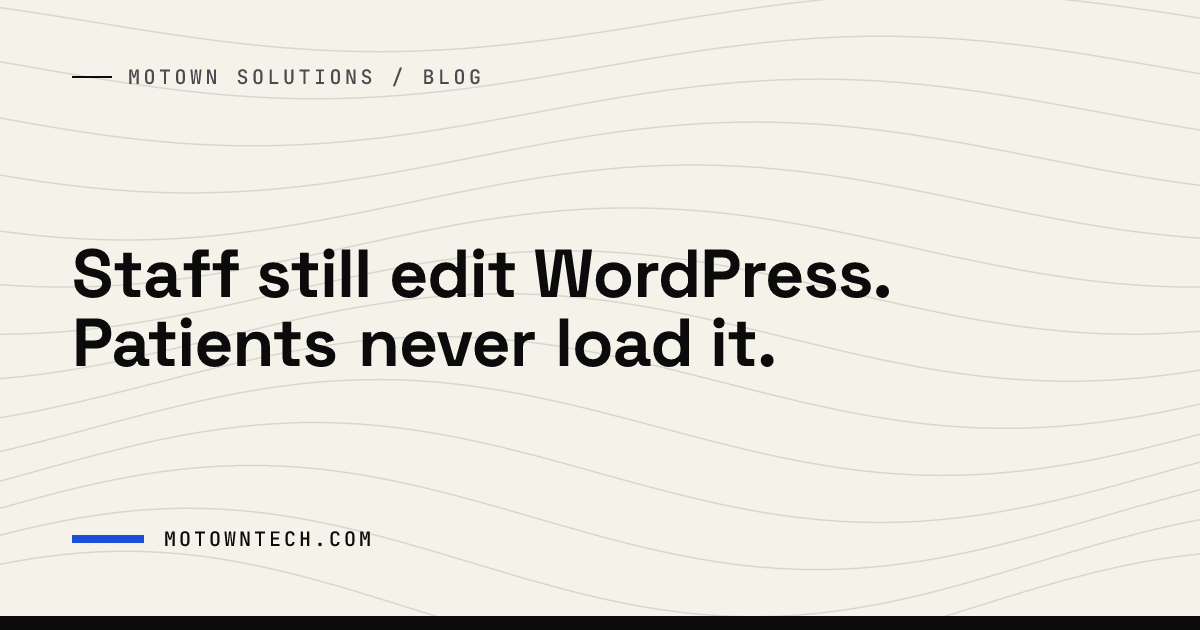
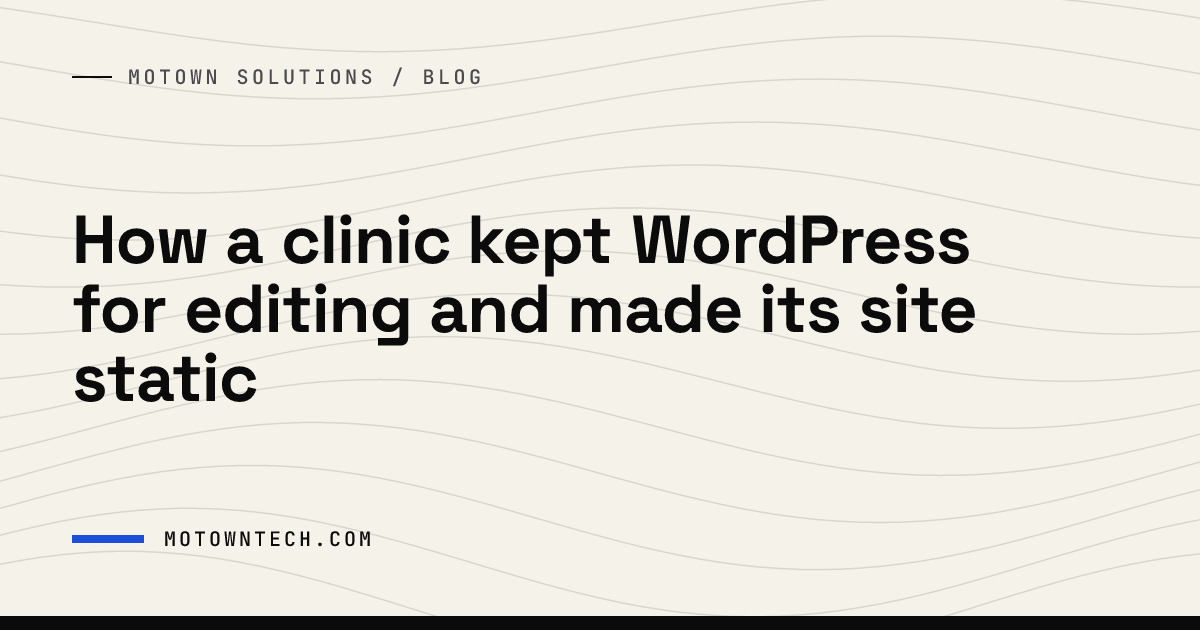
content(blog): descriptive post titles and a title rule
Replaces the 13 teaser titles ("Nothing was broken. That was the hard
part.") with titles that name the topic and what the reader gets
("Taking over someone else's codebase without breaking anything").
Slugs are unchanged. Regenerates the title cards and adds the title rule
to the /blog-post skill so future posts follow it.

Changed region(s): [[0.0617, 0.3317, 0.8325, 0.6333]]

diff --git a/.claude/skills/blog-post/SKILL.md b/.claude/skills/blog-post/SKILL.md
@@ -20,6 +20,18 @@ them that way. If the post needs a fact you don't have, ask.
 
 ## 2. Write the draft
 
+- Title: say what the post covers, not a teaser.
+  - Name the topic in the first few words, the way a reader would search
+    for it ("MVP", "WordPress migration", "technical due diligence").
+  - Say what the reader gets: a decision, a method, or what changed for a
+    client. Case-study posts name the kind of client and what was done
+    ("How an auction house replaced its spreadsheets with a real app").
+  - 45 to 65 characters; posts have no brand suffix in the browser title.
+  - Plain sentence case. No riddles, slogans or two-fragment lines
+    ("X. Y.") as the whole title; a clever line can open the post instead.
+    A colon only to separate topic from angle.
+  - Test: someone who reads only the title can say what the post covers
+    and whether it's for them.
 - Slug: lowercase words joined by hyphens, unique, never a bare number
   (`/blog/2` is pagination).
 - Frontmatter: `title`, `description` (one or two sentences; it is also the

diff --git a/src/content/blog/auction-house-spreadsheets.md b/src/content/blog/auction-house-spreadsheets.md
@@ -1,5 +1,5 @@
 ---
-title: "A spreadsheet knows what. It never knows who, or when."
+title: "How an auction house replaced its spreadsheets with a real app"
 image: ../../assets/blog/auction-house-spreadsheets-image.jpg
 imageAlt: "Loose paper slips and blank photos scattered across a blue surface, turning into a neat column of paper tags on the right"
 cover: ../../assets/blog/auction-house-spreadsheets.png

diff --git a/src/content/blog/mvp-what-to-build-first.md b/src/content/blog/mvp-what-to-build-first.md
@@ -1,5 +1,5 @@
 ---
-title: "Your MVP needs one loop. Write the rest of the list down."
+title: "What to build first in an MVP, and what to leave out"
 image: ../../assets/blog/mvp-what-to-build-first-image.jpg
 imageAlt: "A small wooden stool alone on a blue floor, with a stack of blank cards set aside in the corner"
 cover: ../../assets/blog/mvp-what-to-build-first.png

diff --git a/src/content/blog/prototype-to-production-health-data.md b/src/content/blog/prototype-to-production-health-data.md
@@ -1,5 +1,5 @@
 ---
-title: "A prototype proves the idea. It can't hold someone's name."
+title: "Rebuilding a low-code prototype to safely handle health data"
 image: ../../assets/blog/prototype-to-production-health-data-image.jpg
 imageAlt: "A paper model house next to the same house cast in concrete"
 cover: ../../assets/blog/prototype-to-production-health-data.png

diff --git a/src/content/blog/donation-platform-screening.md b/src/content/blog/donation-platform-screening.md
@@ -1,5 +1,5 @@
 ---
-title: "Screen every donor. Tell none of them."
+title: "How we built sanctions screening into a donation platform"
 image: ../../assets/blog/donation-platform-screening-image.jpg
 imageAlt: "A mesh sieve on a blue surface letting small white pebbles through and holding back larger stones"
 cover: ../../assets/blog/donation-platform-screening.png

diff --git a/src/content/blog/cloud-migration-route-by-route.md b/src/content/blog/cloud-migration-route-by-route.md
@@ -1,5 +1,5 @@
 ---
-title: "Leaving AWS one route at a time"
+title: "Migrating from AWS to Cloudflare one route at a time"
 image: ../../assets/blog/cloud-migration-route-by-route-image.jpg
 imageAlt: "Taped cardboard moving boxes floating above a blue floor, one box resting on the ground"
 cover: ../../assets/blog/cloud-migration-route-by-route.png

diff --git a/src/content/blog/technical-due-diligence-explained.md b/src/content/blog/technical-due-diligence-explained.md
@@ -1,5 +1,5 @@
 ---
-title: "Know what's in the codebase before they do"
+title: "What technical due diligence checks before a raise or acquisition"
 image: ../../assets/blog/technical-due-diligence-explained-image.jpg
 imageAlt: "A jeweler's loupe next to a white cube on a blue surface"
 cover: ../../assets/blog/technical-due-diligence-explained.png

diff --git a/src/content/blog/shopify-custom-or-headless.md b/src/content/blog/shopify-custom-or-headless.md
@@ -1,5 +1,5 @@
 ---
-title: "Shopify, a custom theme or headless: how to pick"
+title: "Shopify, a custom theme or headless commerce: how to choose"
 image: ../../assets/blog/shopify-custom-or-headless-image.jpg
 imageAlt: "Three empty shopping baskets, wicker, wire and blue, on a blue floor"
 cover: ../../assets/blog/shopify-custom-or-headless.png

diff --git a/src/content/blog/building-for-people-in-grief.md b/src/content/blog/building-for-people-in-grief.md
@@ -1,5 +1,5 @@
 ---
-title: "Nobody arrives here wanting to use software."
+title: "How we designed a member platform for a grief-support nonprofit"
 image: ../../assets/blog/building-for-people-in-grief-image.jpg
 imageAlt: "A small olive sapling in a pot on a blue windowsill in sunlight"
 cover: ../../assets/blog/building-for-people-in-grief.png

diff --git a/src/content/blog/what-your-prototype-skipped.md b/src/content/blog/what-your-prototype-skipped.md
@@ -1,5 +1,5 @@
 ---
-title: "What your AI-built prototype skipped"
+title: "What an AI-built prototype needs before it's ready for real users"
 image: ../../assets/blog/what-your-prototype-skipped-image.jpg
 imageAlt: "A half-built stone arch supported by wooden scaffolding on a blue floor"
 cover: ../../assets/blog/what-your-prototype-skipped.png

diff --git a/src/content/blog/headless-wordpress-clinic.md b/src/content/blog/headless-wordpress-clinic.md
@@ -1,5 +1,5 @@
 ---
-title: "Staff still edit WordPress. Patients never load it."
+title: "How a clinic kept WordPress for editing and made its site static"
 image: ../../assets/blog/headless-wordpress-clinic-image.jpg
 imageAlt: "An empty blue stage with ropes and pulleys visible backstage"
 cover: ../../assets/blog/headless-wordpress-clinic.png

diff --git a/src/content/blog/fractional-cto-for-startups.md b/src/content/blog/fractional-cto-for-startups.md
@@ -1,5 +1,5 @@
 ---
-title: "Most seed-stage startups don't need a full-time CTO"
+title: "When a startup needs a fractional CTO instead of a full-time one"
 image: ../../assets/blog/fractional-cto-for-startups-image.jpg
 imageAlt: "A brass compass on a blue surface casting a long shadow"
 cover: ../../assets/blog/fractional-cto-for-startups.png
